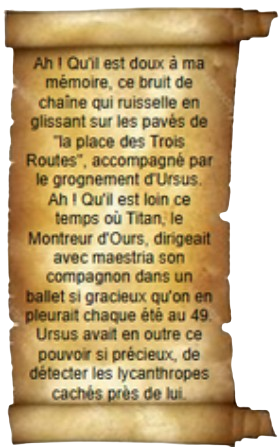
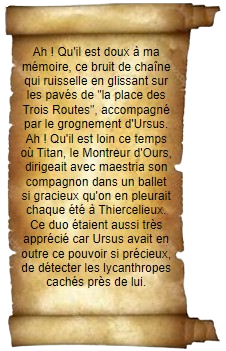
Ajout pointer pour la souris + correction lore montreurs d'ours

diff --git a/src/app/capital-sper/capital-sper.component.html b/src/app/capital-sper/capital-sper.component.html
@@ -6,7 +6,7 @@
 
 <div *ngIf="!this.lancer && this.getCartService().tab" class='container'>
         <div   *ngFor="let carte of this.getCartes()" style="color: rgb(3, 155, 229);
-         ;display: inline-block;cursor: pointer;" 
+         ;display: inline-block;" 
         ><!-- async = subcribe-->
             <tbody  >
                 <tr >
@@ -18,10 +18,10 @@
                         </div>
                         <img class="responsive-img" [src]="carte.illustration"  style="width: 50%;" [alt]="carte.nom" >
                         <div class="card-action">
-                            <i *ngIf="this.getNb(carte.id) == 1" class=" inline-icon material-icons left" (click)="this.diminuer(carte)" > cancel</i>
-                            <i *ngIf="this.getNb(carte.id) > 1" class=" inline-icon material-icons left" (click)="this.diminuer(carte)" > - </i>
+                            <i *ngIf="this.getNb(carte.id) == 1" class=" inline-icon material-icons left" (click)="this.diminuer(carte)" style="cursor: pointer;"> cancel</i>
+                            <i *ngIf="this.getNb(carte.id) > 1" class=" inline-icon material-icons left" (click)="this.diminuer(carte)" style="cursor: pointer;" > - </i>
                             <span class="  middle"  > {{this.getNb(carte.id)}}</span>
-                            <i *ngIf="carte.id == 1 || carte.id == 2" class=" inline-icon material-icons right" (click)="this.incrementer(carte)" >add</i>
+                            <i *ngIf="carte.id == 1 || carte.id == 2" class=" inline-icon material-icons right" (click)="this.incrementer(carte)" style="cursor: pointer;" >add</i>
                         </div>
                     
                         
